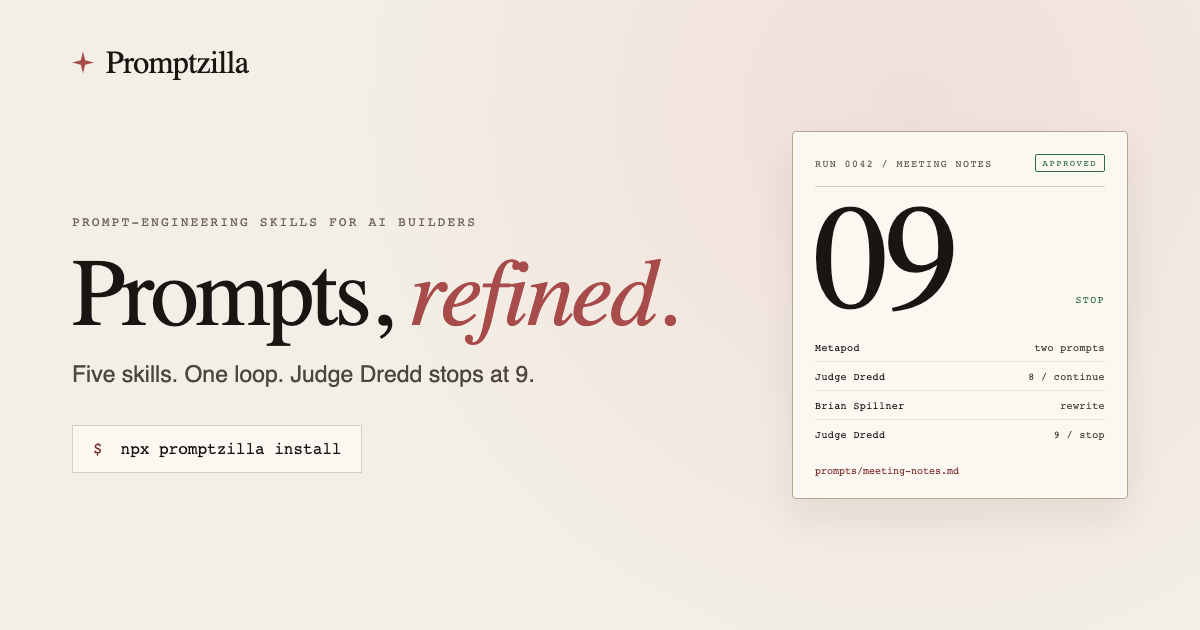
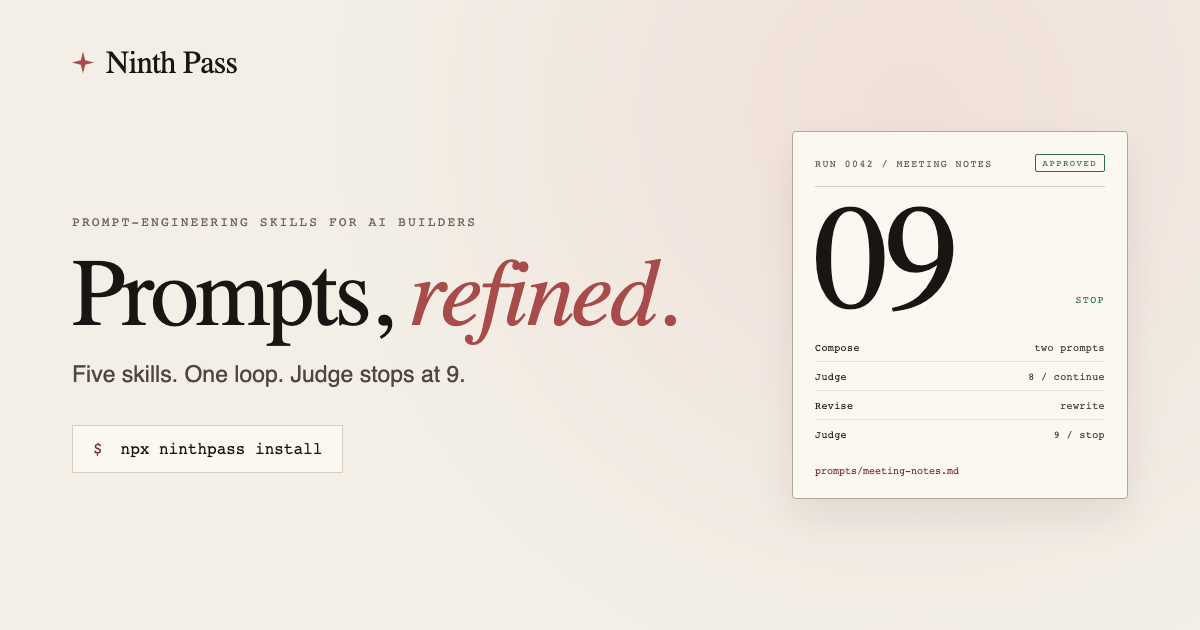
feat: rebrand the page as Ninth Pass
Rename the wordmark, copy, commands, share card, Worker name and repository links from Promptzilla to Ninth Pass. Update the Cloudflare config to attach the interim ninthpass.amccutcheon.com domain while keeping the old domain during the transition. Regenerate the OG card with the new brand and current skill names.

diff --git a/promptzilla/index.html b/promptzilla/index.html
@@ -4,26 +4,26 @@
   <meta charset="utf-8">
   <meta name="viewport" content="width=device-width, initial-scale=1">
   <meta name="color-scheme" content="light">
-  <title>Promptzilla — prompts, refined</title>
+  <title>Ninth Pass — prompts, refined</title>
   <meta name="description" content="Five prompt-engineering skills and a durable loop: Compose generates, Judge scores, Revise rewrites. STOP at 9. Install from the CLI or your agent.">
-  <link rel="canonical" href="https://promptzilla.amccutcheon.com/">
-  <meta property="og:title" content="Promptzilla — prompts, refined">
+  <link rel="canonical" href="https://ninthpass.amccutcheon.com/">
+  <meta property="og:title" content="Ninth Pass — prompts, refined">
   <meta property="og:description" content="Five prompt-engineering skills and a durable loop. Compose generates, Judge scores, Revise rewrites. Only a 9 or 10 approves.">
   <meta property="og:type" content="website">
-  <meta property="og:url" content="https://promptzilla.amccutcheon.com/">
-  <meta property="og:image" content="https://promptzilla.amccutcheon.com/assets/og.png">
+  <meta property="og:url" content="https://ninthpass.amccutcheon.com/">
+  <meta property="og:image" content="https://ninthpass.amccutcheon.com/assets/og.png">
   <meta property="og:image:width" content="1200">
   <meta property="og:image:height" content="630">
   <meta name="twitter:card" content="summary_large_image">
-  <meta name="twitter:title" content="Promptzilla — prompts, refined">
+  <meta name="twitter:title" content="Ninth Pass — prompts, refined">
   <meta name="twitter:description" content="Five prompt-engineering skills and a durable loop. Compose generates, Judge scores, Revise rewrites. Only a 9 or 10 approves.">
-  <meta name="twitter:image" content="https://promptzilla.amccutcheon.com/assets/og.png">
+  <meta name="twitter:image" content="https://ninthpass.amccutcheon.com/assets/og.png">
   <link rel="icon" href="assets/favicon.svg" type="image/svg+xml">
   <link rel="preload" href="assets/fonts/fraunces-normal.woff2" as="font" type="font/woff2" crossorigin>
   <link rel="preload" href="assets/fonts/geist.woff2" as="font" type="font/woff2" crossorigin>
   <link rel="stylesheet" href="css/fonts.css">
   <link rel="stylesheet" href="css/pz-tokens.css">
-  <link rel="stylesheet" href="css/promptzilla.css">
+  <link rel="stylesheet" href="css/ninthpass.css">
   <script>document.documentElement.classList.replace('no-js', 'js');</script>
 </head>
 <body>
@@ -31,15 +31,15 @@
 
 <header class="pz-header" data-header>
   <div class="pz-shell pz-header__inner">
-    <a class="pz-lockup" href="#main" aria-label="Promptzilla home">
+    <a class="pz-lockup" href="#main" aria-label="Ninth Pass home">
       <svg class="pz-mark" viewBox="0 0 24 24" aria-hidden="true" focusable="false"><path d="M12 1.5c0 5.8 4.7 10.5 10.5 10.5C16.7 12 12 16.7 12 22.5 12 16.7 7.3 12 1.5 12 7.3 12 12 7.3 12 1.5Z" fill="currentColor"/></svg>
-      <span class="pz-lockup__word">Promptzilla</span>
+      <span class="pz-lockup__word">Ninth Pass</span>
     </a>
     <nav class="pz-nav" aria-label="Primary">
       <a href="#loop" data-nav>Loop</a>
       <a href="#skills" data-nav>Skills</a>
       <a href="#install" data-nav>Install</a>
-      <a class="pz-nav__github" href="https://github.com/andymccutcheon/promptzilla">GitHub <svg viewBox="0 0 16 16" aria-hidden="true" focusable="false"><path d="M2 8h11M9 4l4 4-4 4" fill="none" stroke="currentColor" stroke-width="1.5"/></svg></a>
+      <a class="pz-nav__github" href="https://github.com/andymccutcheon/ninthpass">GitHub <svg viewBox="0 0 16 16" aria-hidden="true" focusable="false"><path d="M2 8h11M9 4l4 4-4 4" fill="none" stroke="currentColor" stroke-width="1.5"/></svg></a>
     </nav>
   </div>
 </header>
@@ -53,12 +53,12 @@
       <h1 id="hero-title">Stop <span class="pz-nowrap">hand-writing</span> <em>your prompts.</em></h1>
       <p class="pz-lead">Five prompt-engineering skills. One loop that generates, scores, and rewrites a prompt until Judge stops at 9. Install them into your agent, or run it from the terminal.</p>
       <div class="pz-cta">
-        <a class="pz-button pz-primary" href="https://github.com/andymccutcheon/promptzilla">Get Promptzilla on GitHub <svg viewBox="0 0 16 16" aria-hidden="true" focusable="false"><path d="M2 8h11M9 4l4 4-4 4" fill="none" stroke="currentColor" stroke-width="1.5"/></svg></a>
+        <a class="pz-button pz-primary" href="https://github.com/andymccutcheon/ninthpass">Get Ninth Pass on GitHub <svg viewBox="0 0 16 16" aria-hidden="true" focusable="false"><path d="M2 8h11M9 4l4 4-4 4" fill="none" stroke="currentColor" stroke-width="1.5"/></svg></a>
         <a class="pz-button pz-secondary" href="#loop">See the loop <svg viewBox="0 0 16 16" aria-hidden="true" focusable="false"><path d="M8 2v11M4 9l4 4 4-4" fill="none" stroke="currentColor" stroke-width="1.5"/></svg></a>
       </div>
       <div class="pz-command pz-command--hero">
         <div class="pz-command__meta"><span>Install the skills</span><span>one command</span></div>
-        <pre class="pz-code" tabindex="0" aria-label="Install command"><code id="install-hero">npx promptzilla install</code></pre>
+        <pre class="pz-code" tabindex="0" aria-label="Install command"><code id="install-hero">npx ninthpass install</code></pre>
         <button class="pz-copy" type="button" data-copy-target="install-hero" aria-label="Copy install command">Copy</button>
       </div>
       <p class="pz-note">Node 22.12+. No API key. MIT.</p>
@@ -241,7 +241,7 @@ runs/4cd2abf2-51ec-462d-a4eb-6155be65f94c/
     <header class="pz-section__head">
       <p class="pz-label">04 / Bring your own model</p>
       <h2 id="install-title">Use the model <em>you already trust.</em></h2>
-      <p class="pz-lead">Each stage runs in a fresh process. Promptzilla stores no credentials; the worker you choose handles its own authentication.</p>
+      <p class="pz-lead">Each stage runs in a fresh process. Ninth Pass stores no credentials; the worker you choose handles its own authentication.</p>
     </header>
 
     <div class="pz-install__grid">
@@ -254,7 +254,7 @@ runs/4cd2abf2-51ec-462d-a4eb-6155be65f94c/
 
         <div class="pz-tab-panel" role="tabpanel" id="panel-opencode" aria-labelledby="tab-opencode">
           <div class="pz-command pz-command--dark">
-            <pre class="pz-code" tabindex="0" aria-label="OpenCode command"><code id="cmd-opencode">npx promptzilla run --prompt ./prompt.md --worker opencode</code></pre>
+            <pre class="pz-code" tabindex="0" aria-label="OpenCode command"><code id="cmd-opencode">npx ninthpass run --prompt ./prompt.md --worker opencode</code></pre>
             <button class="pz-copy pz-copy--inverse" type="button" data-copy-target="cmd-opencode" aria-label="Copy OpenCode command">Copy</button>
           </div>
           <p class="pz-note">The default worker. Add <code>--model</code> to choose a model.</p>
@@ -262,7 +262,7 @@ runs/4cd2abf2-51ec-462d-a4eb-6155be65f94c/
 
         <div class="pz-tab-panel" role="tabpanel" id="panel-claude" aria-labelledby="tab-claude" hidden>
           <div class="pz-command pz-command--dark">
-            <pre class="pz-code" tabindex="0" aria-label="Claude Code command"><code id="cmd-claude">npx promptzilla run --prompt ./prompt.md --worker claude --model claude-sonnet-4-5</code></pre>
+            <pre class="pz-code" tabindex="0" aria-label="Claude Code command"><code id="cmd-claude">npx ninthpass run --prompt ./prompt.md --worker claude --model claude-sonnet-4-5</code></pre>
             <button class="pz-copy pz-copy--inverse" type="button" data-copy-target="cmd-claude" aria-label="Copy Claude Code command">Copy</button>
           </div>
           <p class="pz-note">Uses <code>claude -p</code> in a fresh process for every stage.</p>
@@ -270,7 +270,7 @@ runs/4cd2abf2-51ec-462d-a4eb-6155be65f94c/
 
         <div class="pz-tab-panel" role="tabpanel" id="panel-codex" aria-labelledby="tab-codex" hidden>
           <div class="pz-command pz-command--dark">
-            <pre class="pz-code" tabindex="0" aria-label="Codex command"><code id="cmd-codex">npx promptzilla run --prompt ./prompt.md --worker codex</code></pre>
+            <pre class="pz-code" tabindex="0" aria-label="Codex command"><code id="cmd-codex">npx ninthpass run --prompt ./prompt.md --worker codex</code></pre>
             <button class="pz-copy pz-copy--inverse" type="button" data-copy-target="cmd-codex" aria-label="Copy Codex command">Copy</button>
           </div>
           <p class="pz-note">Uses <code>codex exec</code> in a fresh process for every stage.</p>
@@ -280,7 +280,7 @@ runs/4cd2abf2-51ec-462d-a4eb-6155be65f94c/
       <aside class="pz-install__aside">
         <p class="pz-label">Install the five skills</p>
         <div class="pz-command pz-command--install">
-          <pre class="pz-code" tabindex="0" aria-label="Install command"><code id="install-skills">npx promptzilla install</code></pre>
+          <pre class="pz-code" tabindex="0" aria-label="Install command"><code id="install-skills">npx ninthpass install</code></pre>
           <button class="pz-copy" type="button" data-copy-target="install-skills" aria-label="Copy install command">Copy</button>
         </div>
         <p class="pz-note">Detects Claude Code, OpenCode, and shared agents. Use <code>--target</code> or <code>--dir</code> when you want control.</p>
@@ -288,9 +288,9 @@ runs/4cd2abf2-51ec-462d-a4eb-6155be65f94c/
         <details class="pz-details">
           <summary>Prefer to drive each stage yourself?</summary>
           <div class="pz-command pz-command--dark">
-            <pre class="pz-code" tabindex="0" aria-label="Manual pipeline commands"><code id="cmd-manual">promptzilla start --request "Write a prompt for a meeting-notes summarizer"
-promptzilla submit &lt;run-id&gt; --dispatch &lt;id&gt; --output stage.md
-promptzilla status &lt;run-id&gt;</code></pre>
+            <pre class="pz-code" tabindex="0" aria-label="Manual pipeline commands"><code id="cmd-manual">ninthpass start --request "Write a prompt for a meeting-notes summarizer"
+ninthpass submit &lt;run-id&gt; --dispatch &lt;id&gt; --output stage.md
+ninthpass status &lt;run-id&gt;</code></pre>
             <button class="pz-copy pz-copy--inverse" type="button" data-copy-target="cmd-manual" aria-label="Copy manual pipeline commands">Copy</button>
           </div>
           <p class="pz-note">The run records every stage, scorecard, and retry. <code>status --json</code> returns the next dispatch.</p>
@@ -309,7 +309,7 @@ promptzilla status &lt;run-id&gt;</code></pre>
     </header>
 
     <div class="pz-boundaries__list">
-      <article><span class="pz-boundaries__idx">01</span><h3>It does not call a model.</h3><p>The worker does. Promptzilla needs no API key and stores no credentials.</p></article>
+      <article><span class="pz-boundaries__idx">01</span><h3>It does not call a model.</h3><p>The worker does. Ninth Pass needs no API key and stores no credentials.</p></article>
       <article><span class="pz-boundaries__idx">02</span><h3>It does not run an agent.</h3><p>It prepares packets, validates the returned output, and records the run. In manual mode, your host provides the isolation.</p></article>
       <article><span class="pz-boundaries__idx">03</span><h3>It checks structure, not truth.</h3><p>Scorecards are validated for shape and consistency, not semantic truth, completeness of evidence, or model quality.</p></article>
       <article><span class="pz-boundaries__idx">04</span><h3>It does not apply fixes silently.</h3><p>Exact replacements are explicit, all-or-nothing, and confirmed by a fresh Judge before approval.</p></article>
@@ -323,12 +323,12 @@ promptzilla status &lt;run-id&gt;</code></pre>
     <h2 id="start-title">Install the skills. Run the loop. <em>Read the prompt.</em></h2>
     <div class="pz-command pz-command--hero">
       <div class="pz-command__meta"><span>Install the skills</span><span>one command</span></div>
-      <pre class="pz-code" tabindex="0" aria-label="Install command"><code id="install-final">npx promptzilla install</code></pre>
+      <pre class="pz-code" tabindex="0" aria-label="Install command"><code id="install-final">npx ninthpass install</code></pre>
       <button class="pz-copy" type="button" data-copy-target="install-final" aria-label="Copy install command">Copy</button>
     </div>
     <div class="pz-cta">
-      <a class="pz-button pz-primary" href="https://github.com/andymccutcheon/promptzilla">Get Promptzilla on GitHub <svg viewBox="0 0 16 16" aria-hidden="true" focusable="false"><path d="M2 8h11M9 4l4 4-4 4" fill="none" stroke="currentColor" stroke-width="1.5"/></svg></a>
-      <a class="pz-button pz-secondary" href="https://github.com/andymccutcheon/promptzilla#readme">Read the README</a>
+      <a class="pz-button pz-primary" href="https://github.com/andymccutcheon/ninthpass">Get Ninth Pass on GitHub <svg viewBox="0 0 16 16" aria-hidden="true" focusable="false"><path d="M2 8h11M9 4l4 4-4 4" fill="none" stroke="currentColor" stroke-width="1.5"/></svg></a>
+      <a class="pz-button pz-secondary" href="https://github.com/andymccutcheon/ninthpass#readme">Read the README</a>
     </div>
     <p class="pz-note">MIT. Node 22.12+. No API key required.</p>
   </div>
@@ -339,20 +339,20 @@ promptzilla status &lt;run-id&gt;</code></pre>
 <footer class="pz-footer">
   <div class="pz-shell pz-footer__grid">
     <div class="pz-footer__about">
-      <span class="pz-lockup"><svg class="pz-mark" viewBox="0 0 24 24" aria-hidden="true" focusable="false"><path d="M12 1.5c0 5.8 4.7 10.5 10.5 10.5C16.7 12 12 16.7 12 22.5 12 16.7 7.3 12 1.5 12 7.3 12 12 7.3 12 1.5Z" fill="currentColor"/></svg><span class="pz-lockup__word">Promptzilla</span></span>
+      <span class="pz-lockup"><svg class="pz-mark" viewBox="0 0 24 24" aria-hidden="true" focusable="false"><path d="M12 1.5c0 5.8 4.7 10.5 10.5 10.5C16.7 12 12 16.7 12 22.5 12 16.7 7.3 12 1.5 12 7.3 12 12 7.3 12 1.5Z" fill="currentColor"/></svg><span class="pz-lockup__word">Ninth Pass</span></span>
       <p>An independent open-source project by Andy McCutcheon.</p>
     </div>
     <nav class="pz-footer__links" aria-label="Footer">
-      <a href="https://github.com/andymccutcheon/promptzilla">GitHub</a>
-      <a href="https://github.com/andymccutcheon/promptzilla#readme">README</a>
-      <a href="https://www.npmjs.com/package/promptzilla">npm</a>
-      <a href="https://github.com/andymccutcheon/promptzilla/issues">Issues</a>
-      <a href="https://github.com/andymccutcheon/promptzilla/blob/main/LICENSE">License</a>
+      <a href="https://github.com/andymccutcheon/ninthpass">GitHub</a>
+      <a href="https://github.com/andymccutcheon/ninthpass#readme">README</a>
+      <a href="https://www.npmjs.com/package/ninthpass">npm</a>
+      <a href="https://github.com/andymccutcheon/ninthpass/issues">Issues</a>
+      <a href="https://github.com/andymccutcheon/ninthpass/blob/main/LICENSE">License</a>
     </nav>
     <div class="pz-footer__credit">
       <p>Skill names are the project's own and imply no affiliation with any character or rights holder.</p>
       <p>Instrument Serif, Geist, and Geist Mono are used under the SIL Open Font License.</p>
-      <p>© 2026 Promptzilla</p>
+      <p>© 2026 Ninth Pass</p>
     </div>
   </div>
 </footer>

diff --git a/promptzilla/diagrams/loop.html b/promptzilla/diagrams/loop.html
@@ -3,7 +3,7 @@
 <head>
   <meta charset="UTF-8">
   <meta name="viewport" content="width=device-width, initial-scale=1.0">
-  <title>The Promptzilla refinement loop</title>
+  <title>The Ninth Pass refinement loop</title>
   <style>
     *, *::before, *::after { box-sizing: border-box; }
     @font-face {
@@ -220,7 +220,7 @@
 
     <div class="diagram-container">
       <svg viewBox="0 0 960 600" xmlns="http://www.w3.org/2000/svg" role="img" aria-labelledby="pz-loop-title pz-loop-desc">
-        <title id="pz-loop-title">The Promptzilla refinement loop</title>
+        <title id="pz-loop-title">The Ninth Pass refinement loop</title>
         <desc id="pz-loop-desc">A request is composed into a System Prompt and a Task Prompt, judged on a locked rubric, revised, and judged again. A score of 9 or 10 stops the loop and approves the prompt. Four passes without STOP produce a provisional prompt; two rewrites without improvement pause the run.</desc>
         <defs>
           <pattern id="pz-loop-dots" width="22" height="22" patternUnits="userSpaceOnUse">

diff --git a/promptzilla/cloudflare/cloudflare.config.ts b/promptzilla/cloudflare/cloudflare.config.ts
@@ -7,11 +7,11 @@ export default defineConfig({
   // cf login has access to exactly one account.
   ...(process.env.CLOUDFLARE_ACCOUNT_ID ? { accountId: process.env.CLOUDFLARE_ACCOUNT_ID } : {}),
   worker: {
-    name: 'promptzilla-site',
+    name: 'ninthpass-site',
     compatibilityDate: '2026-10-01',
     workersDev: true,
     previewUrls: false,
-    domains: ['promptzilla.amccutcheon.com'],
+    domains: ['ninthpass.amccutcheon.com', 'promptzilla.amccutcheon.com'],
     assets: {
       htmlHandling: 'auto-trailing-slash',
       notFoundHandling: 'none',

diff --git a/promptzilla/css/ninthpass.css b/promptzilla/css/ninthpass.css
@@ -1,4 +1,4 @@
-/* Promptzilla page styles. Every colour, length and duration resolves through
+/* Ninth Pass page styles. Every colour, length and duration resolves through
    css/pz-tokens.css, which tools/check_literals.py treats as the token file.
    The only raw lengths here are the reviewed media-query boundaries. */
 

diff --git a/promptzilla/css/pz-tokens.css b/promptzilla/css/pz-tokens.css
@@ -1,4 +1,4 @@
-/* Promptzilla design tokens. This is the only page stylesheet that may hold raw
+/* Ninth Pass design tokens. This is the only page stylesheet that may hold raw
    colour, length and duration values; tools/check_literals.py exempts it. */
 :root {
   color-scheme: light;

diff --git a/promptzilla/js/page.js b/promptzilla/js/page.js
@@ -1,4 +1,4 @@
-// Promptzilla page behaviour. Progressive enhancement only: every command and
+// Ninth Pass page behaviour. Progressive enhancement only: every command and
 // every section is present and readable with JavaScript off.
 (() => {
   const COPY_FEEDBACK_MS = 2000;

diff --git a/tools/promptzilla_render_check.py b/tools/promptzilla_render_check.py
@@ -1,4 +1,4 @@
-"""Promptzilla responsive, interaction and resilience contract.
+"""Ninth Pass responsive, interaction and resilience contract.
 
 The page is light-only. It is captured at six widths, then checked for the
 structure, the install command above the fold, the loop interaction, the worker
@@ -17,13 +17,13 @@ SECTIONS = 7
 STAGES = 4
 SKILLS = 5
 TABS = 3
-REPO_URL = 'https://github.com/andymccutcheon/promptzilla'
-INSTALL_COMMAND = 'npx promptzilla install'
+REPO_URL = 'https://github.com/andymccutcheon/ninthpass'
+INSTALL_COMMAND = 'npx ninthpass install'
 ASSETS = (
     'promptzilla/index.html',
     'promptzilla/css/fonts.css',
     'promptzilla/css/pz-tokens.css',
-    'promptzilla/css/promptzilla.css',
+    'promptzilla/css/ninthpass.css',
     'promptzilla/js/page.js',
     'promptzilla/diagrams/loop.html',
     'promptzilla/assets/favicon.svg',
@@ -134,7 +134,7 @@ async def run(browser, failures, warm):
     if sum(sizes.values()) > GZIP_BUDGET:
         failures.append(f'Promptzilla budget {sum(sizes.values())} > {GZIP_BUDGET}: {sizes}')
     (out / 'results.json').write_text(json.dumps({'views': measurements, 'gzip': sizes}, indent=2) + '\n', encoding='utf-8')
-    print(f'Promptzilla: {len(WIDTHS)} captures, no-JavaScript, loop, tabs, clipboard, keyboard, reduced-motion and boundary checks; gzip {sum(sizes.values())} of {GZIP_BUDGET} bytes.')
+    print(f'Ninth Pass: {len(WIDTHS)} captures, no-JavaScript, loop, tabs, clipboard, keyboard, reduced-motion and boundary checks; gzip {sum(sizes.values())} of {GZIP_BUDGET} bytes.')
 
 
 async def check_loop_and_tabs(browser, url, failures):

diff --git a/tools/check_literals.py b/tools/check_literals.py
@@ -35,7 +35,7 @@ def main() -> int:
         for number, line in enumerate(path.read_text(encoding="utf-8").splitlines(), 1):
             for kind, pattern in PATTERNS.items():
                 matches = list(pattern.finditer(line))
-                if kind == "length" and path.name in {"base.css", "freewhirr.css", "shipwatch.css", "common.css", "promptzilla.css"}:
+                if kind == "length" and path.name in {"base.css", "freewhirr.css", "shipwatch.css", "common.css", "ninthpass.css"}:
                     matches = [match for match in matches if not permitted_media_query(line, match)]
                 if matches:
                     values = ", ".join(match.group(0) for match in matches)

diff --git a/tools/promptzilla_contrast_check.py b/tools/promptzilla_contrast_check.py
@@ -1,4 +1,4 @@
-"""Measure Promptzilla text, interactive state and focus contrast in Chromium.
+"""Measure Ninth Pass text, interactive state and focus contrast in Chromium.
 
 Text needs 4.5:1 (3:1 at 24px, or 18.66px bold and larger). Focus indicators and
 the gate rule need 3:1. The page is light-only, so one pass covers it.

diff --git a/promptzilla/DESIGN.md b/promptzilla/DESIGN.md
@@ -1,10 +1,10 @@
-# Promptzilla landing page — The Refinery
+# Ninth Pass landing page — The Refinery
 
 **Status:** branch `redesign/fraunces-oxblood`, 2026-10-19. Verified locally and packaged
-with a Cloudflare dry run; **not deployed**. The live page is the previous
+with a Cloudflare dry run; **not deployed**. The live page is the previous Promptzilla
 Vermilion/Instrument redesign. This branch adds Fraunces + Oxblood, the professional skill
-names and the loop diagram. Deploy only after `promptzilla@2.0.0` is on npm, because the
-page's install command is the v2 command.
+names, the loop diagram and the **Ninth Pass** rebrand. Deploy only after
+`ninthpass@2.0.0` is on npm and the new domain is attached.
 
 ## 1. Read and dials
 
@@ -27,7 +27,7 @@ a warm editorial refinery:
 - **System.** Warm paper and ink, one oxblood accent, Fraunces for display, Geist for body
   and UI, Geist Mono for commands and labels. All faces are self-hosted, Latin-subset
   WOFF2, and used under the SIL Open Font License.
-- **Content.** The page now sells Promptzilla v2 — five skills, one install command, a CLI
+- **Content.** The page now sells Ninth Pass v2 — five skills, one install command, a CLI
   that runs each stage in a fresh process, and a Markdown prompt at the end. The v1 MCP
   story (13 tools, 5 prompts, resources, Cloudflare self-hosting, the setup skill) is gone.
   The skills are **Brief, Compose, Judge, Revise, Loop**.
@@ -143,10 +143,10 @@ Run from the worktree root with the repository's Playwright environment:
 
 ```sh
 python3 tools/check_literals.py
-LP_PROMPTZILLA_URL=http://127.0.0.1:8777/promptzilla/ \
-  ~/Documents/GitHub/landing-pages/.venv/bin/python tools/promptzilla_render_check.py
-LP_PROMPTZILLA_URL=http://127.0.0.1:8777/promptzilla/ \
-  ~/Documents/GitHub/landing-pages/.venv/bin/python tools/promptzilla_contrast_check.py
+LP_NINTHPASS_URL=http://127.0.0.1:8777/ninthpass/ \
+  ~/Documents/GitHub/landing-pages/.venv/bin/python tools/ninthpass_render_check.py
+LP_NINTHPASS_URL=http://127.0.0.1:8777/ninthpass/ \
+  ~/Documents/GitHub/landing-pages/.venv/bin/python tools/ninthpass_contrast_check.py
 ```
 
 Measured on 2026-10-19:
@@ -167,15 +167,17 @@ Measured on 2026-10-19:
 
 ## 8. Open items
 
-- **Deploy after npm 2.0.0.** The page's install command is `npx promptzilla install`.
+- **Deploy after npm 2.0.0.** The page's install command is `npx ninthpass install`.
   Until the v2 package is published, that command installs the v1 MCP package. Publish
   first, then deploy.
 - **OG image.** `assets/og.png` is a 1200×630 paper/ink/oxblood card, wired into the
   Open Graph and Twitter metadata.
-- **Product naming sprint.** The product remains Promptzilla for this release; the five
-  skills are now professional. A cleared product-name sprint is queued.
+- **Product name.** Ninth Pass is chosen. The package will be `ninthpass`, the CLI
+  `ninthpass`, and the interim site `ninthpass.amccutcheon.com`; `ninthpass.com` is free to
+  register. The five skills are Brief, Compose, Judge, Revise and Loop.
 - **A second diagram.** The run/data-flow diagram (fresh worker per stage, stage files,
   final prompt) is the next visual; the loop diagram is shipped.
 - **Social proof and a before/after prompt.** Still absent, deliberately. Add only with
   real material.
-- **Custom domain.** Already live on `promptzilla.amccutcheon.com`; keep it.
+- **Domain.** Attach `ninthpass.amccutcheon.com` and keep the old Promptzilla domain during
+  the transition, or register `ninthpass.com`; the DNS/Worker cutover is pending.

diff --git a/promptzilla/cloudflare/README.md b/promptzilla/cloudflare/README.md
@@ -1,7 +1,7 @@
-# Promptzilla site: Cloudflare packaging
+# Ninth Pass site: Cloudflare packaging
 
-This directory deploys `promptzilla/index.html` and its page-local `css/`, `js/` and
-`assets/` as a static-assets Worker named `promptzilla-site`, using the
+This directory deploys `ninthpass/index.html` and its page-local `css/`, `js/` and
+`assets/` as a static-assets Worker named `ninthpass-site`, using the
 [`cf`](https://developers.cloudflare.com/cf/) CLI. It is self-contained: nothing here
 changes the page, and nothing here is used by the GitHub Pages workflow that publishes
 the other pages.
@@ -20,7 +20,7 @@ There is no Wrangler configuration. `cf` is the CLI for this project, per
 
 `npm run build` runs `scripts/build.mjs`, which:
 
-1. checks that every `css/`, `js/` and `assets/` reference in `promptzilla/index.html`
+1. checks that every `css/`, `js/` and `assets/` reference in `ninthpass/index.html`
    resolves to a real file, and that every non-data `url(...)` in the page stylesheets
    resolves to a real asset;
 2. replaces `dist/` with the page and its three page-local directories, then rewrites
@@ -37,7 +37,7 @@ recreates `dist/`, which is a generated directory owned by this script.
 ## Check the build without deploying
 
 ```sh
-cd promptzilla/cloudflare
+cd ninthpass/cloudflare
 npm install
 npm run check
 ```
@@ -49,11 +49,11 @@ from the assets directory and exits with `--dry-run: exiting now.`
 
 ## Deploy
 
-Sign in once, then deploy. **Publish `promptzilla@2.0.0` first**: the page's install
+Sign in once, then deploy. **Publish `ninthpass@2.0.0` first**: the page's install
 command is the v2 command, and the current npm package is still the v1 MCP server.
 
 ```sh
-cd promptzilla/cloudflare
+cd ninthpass/cloudflare
 npx cf auth login            # add --no-browser over SSH or in a container
 npx cf auth whoami           # confirms the account the deploy will use
 npm install
@@ -68,9 +68,9 @@ instead of signing in, as described in [Use `cf` in CI](https://developers.cloud
 
 Reachability is one command. It requests the page and all fourteen published assets,
 requires `200` from each, and asserts that the served HTML still carries two primary calls
-to action pointing at the Promptzilla repository and references its stylesheet, page
+to action pointing at the Ninth Pass repository and references its stylesheet, page
 script and favicon.
 
 ```sh
-npm run verify -- https://promptzilla.amccutcheon.com
+npm run verify -- https://ninthpass.amccutcheon.com
 ```
